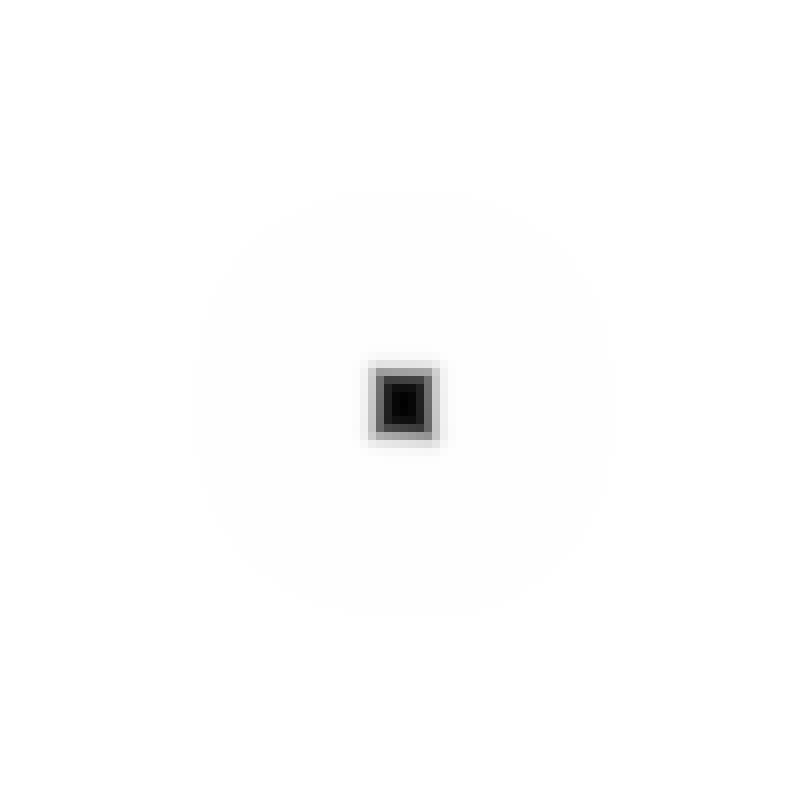
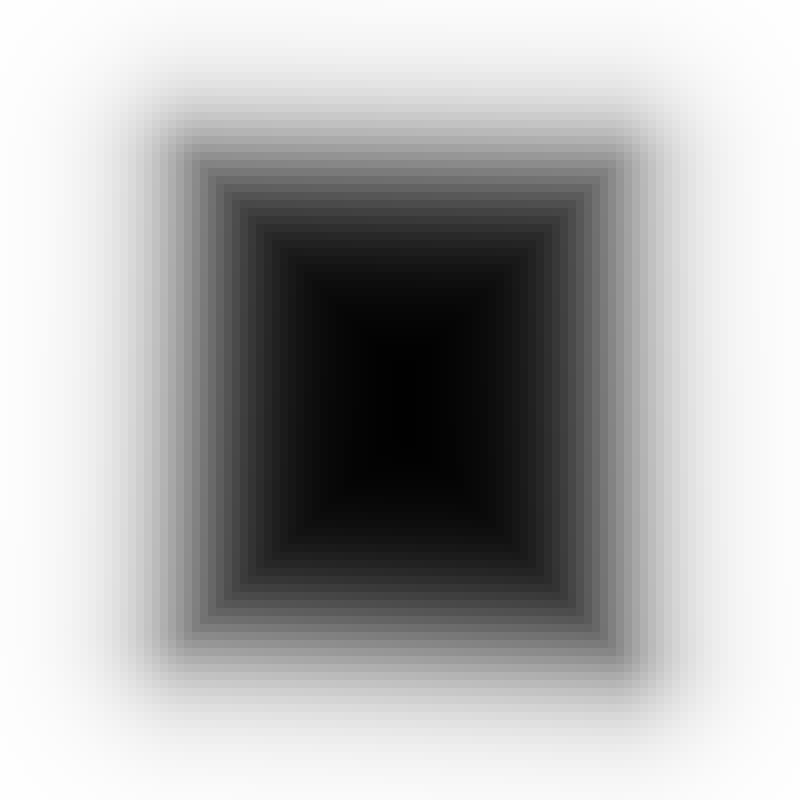
Fix range issue

diff --git a/code/test.py b/code/test.py
@@ -1,7 +1,7 @@
 from renderer import *
 from sampler import *
 
-sampler = ShapeSampler('star', SHAPE_PATH, TRAIN_DATA_PATH, VAL_DATA_PATH, SAMPLED_IMAGE_PATH)
+sampler = ShapeSampler('square', SHAPE_PATH, TRAIN_DATA_PATH, VAL_DATA_PATH, SAMPLED_IMAGE_PATH)
 sampler.load()
 sampler.normalize()
-plot_sdf(sampler.shape.sdf, 'cpu', CANVAS_SIZE[0], filepath='../results/', filename='test_star.png', is_net=False)
+plot_sdf(sampler.shape.sdf, 'cpu', CANVAS_SIZE[0], filepath='../results/', filename='test_square.png', is_net=False)

diff --git a/code/renderer.py b/code/renderer.py
@@ -6,7 +6,7 @@ import torch
 # Adapted from https://github.com/Oktosha/DeepSDF-explained/blob/master/deepSDF-explained.ipynb
 def plot_sdf(sdf_func, device, size=800, filepath='', filename='res.png', is_net=False):
     # Sample the 2D domain as a regular grid
-    coordinates_linspace = np.linspace(-4, 4, 101)
+    coordinates_linspace = np.linspace(-0.5, 0.5, 101)
     y, x = np.meshgrid(coordinates_linspace, coordinates_linspace)
     if not is_net:
         z = [[sdf_func(np.float_([x_, y_]))
